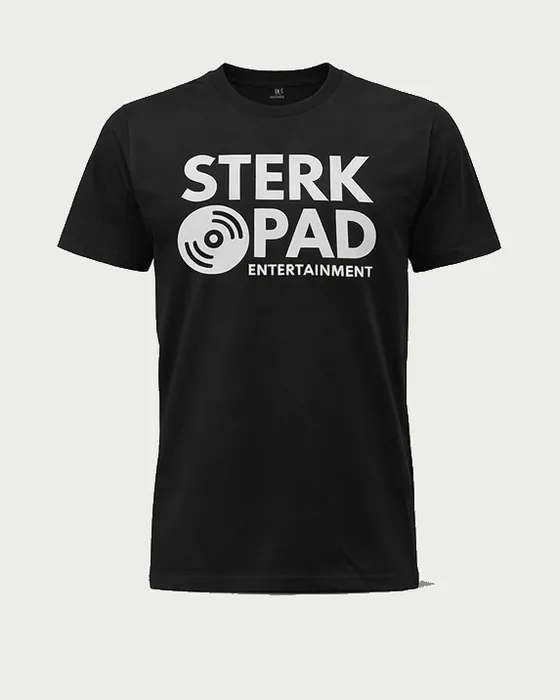
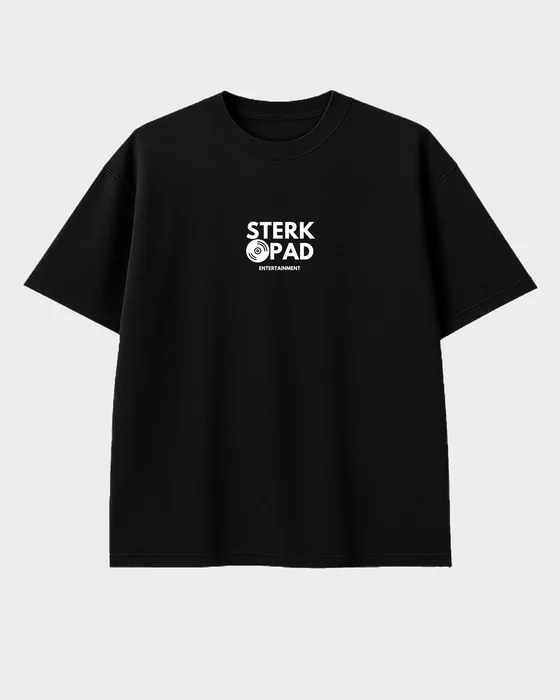
Update the product catalogue from the 2026 lookbook
New prices and sizing supplied by the label:

  Tee     R250 -> R350   S-XXL -> S-XXXL   black or white
  Hoodie  R450 -> R500   S-XXL -> S-XXXL   black or white
  Cap     R180 unchanged, one size

The tee photo is replaced from merch.pdf. That file is eight pages but
only two unique images — a white tee on black and a black tee on white,
each duplicated with the logo at two scales — so pages 1 and 5 were
extracted as tracked sources, their logo bounding boxes matching to a
pixel. prep-merch.py gains a per-entry key mode for the white-on-black
shot, and a fill_w override: a garment wider than it is tall hits the
width limit first, so the tee stopped at 61% of tile height against the
hoodie's 76% and read as a smaller product rather than a wider one.

--probe now reads the corners to pick its own threshold. Asked for a
dark-backdrop file it previously answered with the whole frame.

Not added: TrackPants (R500) and the Full Tracksuit (R800 in S, R850 in
M-XXXL). There is no product photography for either — merch.pdf is
t-shirts only and the "Sterk Opad Apparel" material has not landed. Both
are recorded in a comment on the products section so the range is not
quietly forgotten.

The cap is kept at R180 although it is absent from the new list.

Worth knowing: the tee now carries the lookbook's small left-chest logo
while the hoodie and cap still show the previous large centre-chest one,
so the row is not visually consistent until those two are reshot.

Changed region(s): [[0.0304, 0.3, 0.9714, 0.87], [0.1214, 0.09, 0.8804, 0.42]]

diff --git a/apparel.html b/apparel.html
@@ -96,22 +96,53 @@
         </p>
       </div>
 
+      <!-- Catalogue as supplied by the label, July 2026. Still to be added
+           once product photography exists for them:
+             TrackPants        R500  S-XXXL, black or white
+             Full Tracksuit    R800 in S, R850 in M-XXXL
+           merch.pdf covers t-shirts only. The white tee colourway is already
+           prepped — see "Tee White.png" in the manifest note in
+           tools/prep-merch.py — if the range is ever split by colour.
+
+           The hoodie and cap photos still carry the previous large centre-chest
+           logo; the tee is the current small left-chest lookbook design. Reshoot
+           those two to match. -->
       <div class="merch-grid animate-in animate-in--delay-1">
 
         <article class="merch-card">
           <div class="merch-card__media">
             <span class="merch-card__badge">New</span>
             <img class="merch-card__photo" src="images/merch/tee-black.webp"
-                 alt="Black SterkOpad Entertainment unisex t-shirt with the white chest logo"
+                 alt="SterkOpad Entertainment classic logo t-shirt in black, with a small left-chest logo"
                  width="560" height="700" loading="lazy" decoding="async" />
           </div>
           <div class="merch-card__body">
             <h3 class="merch-card__name">SterkOpad Tee</h3>
-            <p class="merch-card__price">R250</p>
-            <p class="merch-card__desc">Black unisex tee with the white label logo printed on the chest.</p>
-            <p class="merch-card__meta">Unisex &middot; S&ndash;XXL</p>
+            <p class="merch-card__price">R350</p>
+            <p class="merch-card__desc">Classic logo tee in 220&nbsp;GSM cotton, with the label mark on the left chest.</p>
+            <p class="merch-card__meta">Black or White &middot; S&ndash;XXXL</p>
             <a class="merch-card__cta btn btn--whatsapp"
-               href="https://wa.me/27605234596?text=Hi%20SterkOpad%2C%20I%27d%20like%20to%20order%20the%20SterkOpad%20Tee%20%28R250%29.%20My%20size%3A%20"
+               href="https://wa.me/27605234596?text=Hi%20SterkOpad%2C%20I%27d%20like%20to%20order%20the%20SterkOpad%20Tee%20%28R350%29.%20Colour%20and%20size%3A%20"
+               target="_blank" rel="noopener noreferrer">
+              <svg viewBox="0 0 24 24" aria-hidden="true"><path d="M17.472 14.382c-.297-.149-1.758-.867-2.03-.967-.273-.099-.471-.148-.67.15-.197.297-.767.966-.94 1.164-.173.199-.347.223-.644.075-.297-.15-1.255-.463-2.39-1.475-.883-.788-1.48-1.761-1.653-2.059-.173-.297-.018-.458.13-.606.134-.133.298-.347.446-.52.149-.174.198-.298.298-.497.099-.198.05-.371-.025-.52-.075-.149-.669-1.612-.916-2.207-.242-.579-.487-.5-.669-.51-.173-.008-.371-.01-.57-.01-.198 0-.52.074-.792.372-.272.297-1.04 1.016-1.04 2.479 0 1.462 1.065 2.875 1.213 3.074.149.198 2.096 3.2 5.077 4.487.709.306 1.262.489 1.694.625.712.227 1.36.195 1.871.118.571-.085 1.758-.719 2.006-1.413.248-.694.248-1.289.173-1.413-.074-.124-.272-.198-.57-.347m-5.421 7.403h-.004a9.87 9.87 0 01-5.031-1.378l-.361-.214-3.741.982.998-3.648-.235-.374a9.86 9.86 0 01-1.51-5.26c.001-5.45 4.436-9.884 9.888-9.884 2.64 0 5.122 1.03 6.988 2.898a9.825 9.825 0 012.893 6.994c-.003 5.45-4.437 9.884-9.885 9.884m8.413-18.297A11.815 11.815 0 0012.05 0C5.495 0 .16 5.335.157 11.892c0 2.096.547 4.142 1.588 5.945L.057 24l6.305-1.654a11.882 11.882 0 005.683 1.448h.005c6.554 0 11.89-5.335 11.893-11.893a11.821 11.821 0 00-3.48-8.413z"/></svg>
+              Order on WhatsApp
+            </a>
+          </div>
+        </article>
+
+        <article class="merch-card">
+          <div class="merch-card__media">
+            <img class="merch-card__photo" src="images/merch/hoodie.webp"
+                 alt="SterkOpad Entertainment classic logo pullover hoodie in black"
+                 width="560" height="700" loading="lazy" decoding="async" />
+          </div>
+          <div class="merch-card__body">
+            <h3 class="merch-card__name">SterkOpad Hoodie</h3>
+            <p class="merch-card__price">R500</p>
+            <p class="merch-card__desc">Classic logo hoodie. Heavyweight pullover with the label mark across the chest.</p>
+            <p class="merch-card__meta">Black or White &middot; S&ndash;XXXL</p>
+            <a class="merch-card__cta btn btn--whatsapp"
+               href="https://wa.me/27605234596?text=Hi%20SterkOpad%2C%20I%27d%20like%20to%20order%20the%20SterkOpad%20Hoodie%20%28R500%29.%20Colour%20and%20size%3A%20"
                target="_blank" rel="noopener noreferrer">
               <svg viewBox="0 0 24 24" aria-hidden="true"><path d="M17.472 14.382c-.297-.149-1.758-.867-2.03-.967-.273-.099-.471-.148-.67.15-.197.297-.767.966-.94 1.164-.173.199-.347.223-.644.075-.297-.15-1.255-.463-2.39-1.475-.883-.788-1.48-1.761-1.653-2.059-.173-.297-.018-.458.13-.606.134-.133.298-.347.446-.52.149-.174.198-.298.298-.497.099-.198.05-.371-.025-.52-.075-.149-.669-1.612-.916-2.207-.242-.579-.487-.5-.669-.51-.173-.008-.371-.01-.57-.01-.198 0-.52.074-.792.372-.272.297-1.04 1.016-1.04 2.479 0 1.462 1.065 2.875 1.213 3.074.149.198 2.096 3.2 5.077 4.487.709.306 1.262.489 1.694.625.712.227 1.36.195 1.871.118.571-.085 1.758-.719 2.006-1.413.248-.694.248-1.289.173-1.413-.074-.124-.272-.198-.57-.347m-5.421 7.403h-.004a9.87 9.87 0 01-5.031-1.378l-.361-.214-3.741.982.998-3.648-.235-.374a9.86 9.86 0 01-1.51-5.26c.001-5.45 4.436-9.884 9.888-9.884 2.64 0 5.122 1.03 6.988 2.898a9.825 9.825 0 012.893 6.994c-.003 5.45-4.437 9.884-9.885 9.884m8.413-18.297A11.815 11.815 0 0012.05 0C5.495 0 .16 5.335.157 11.892c0 2.096.547 4.142 1.588 5.945L.057 24l6.305-1.654a11.882 11.882 0 005.683 1.448h.005c6.554 0 11.89-5.335 11.893-11.893a11.821 11.821 0 00-3.48-8.413z"/></svg>
               Order on WhatsApp
@@ -122,7 +153,7 @@
         <article class="merch-card">
           <div class="merch-card__media">
             <img class="merch-card__photo" src="images/merch/cap.webp"
-                 alt="Black SterkOpad Entertainment snapback cap with an embroidered front logo"
+                 alt="SterkOpad Entertainment snapback cap in black with an embroidered front logo"
                  width="560" height="700" loading="lazy" decoding="async" />
           </div>
           <div class="merch-card__body">
@@ -139,30 +170,10 @@
           </div>
         </article>
 
-        <article class="merch-card">
-          <div class="merch-card__media">
-            <img class="merch-card__photo" src="images/merch/hoodie.webp"
-                 alt="Black SterkOpad Entertainment pullover hoodie with the white chest logo"
-                 width="560" height="700" loading="lazy" decoding="async" />
-          </div>
-          <div class="merch-card__body">
-            <h3 class="merch-card__name">SterkOpad Hoodie</h3>
-            <p class="merch-card__price">R450</p>
-            <p class="merch-card__desc">Heavyweight pullover hoodie with the label logo across the chest.</p>
-            <p class="merch-card__meta">Unisex &middot; S&ndash;XXL</p>
-            <a class="merch-card__cta btn btn--whatsapp"
-               href="https://wa.me/27605234596?text=Hi%20SterkOpad%2C%20I%27d%20like%20to%20order%20the%20SterkOpad%20Hoodie%20%28R450%29.%20My%20size%3A%20"
-               target="_blank" rel="noopener noreferrer">
-              <svg viewBox="0 0 24 24" aria-hidden="true"><path d="M17.472 14.382c-.297-.149-1.758-.867-2.03-.967-.273-.099-.471-.148-.67.15-.197.297-.767.966-.94 1.164-.173.199-.347.223-.644.075-.297-.15-1.255-.463-2.39-1.475-.883-.788-1.48-1.761-1.653-2.059-.173-.297-.018-.458.13-.606.134-.133.298-.347.446-.52.149-.174.198-.298.298-.497.099-.198.05-.371-.025-.52-.075-.149-.669-1.612-.916-2.207-.242-.579-.487-.5-.669-.51-.173-.008-.371-.01-.57-.01-.198 0-.52.074-.792.372-.272.297-1.04 1.016-1.04 2.479 0 1.462 1.065 2.875 1.213 3.074.149.198 2.096 3.2 5.077 4.487.709.306 1.262.489 1.694.625.712.227 1.36.195 1.871.118.571-.085 1.758-.719 2.006-1.413.248-.694.248-1.289.173-1.413-.074-.124-.272-.198-.57-.347m-5.421 7.403h-.004a9.87 9.87 0 01-5.031-1.378l-.361-.214-3.741.982.998-3.648-.235-.374a9.86 9.86 0 01-1.51-5.26c.001-5.45 4.436-9.884 9.888-9.884 2.64 0 5.122 1.03 6.988 2.898a9.825 9.825 0 012.893 6.994c-.003 5.45-4.437 9.884-9.885 9.884m8.413-18.297A11.815 11.815 0 0012.05 0C5.495 0 .16 5.335.157 11.892c0 2.096.547 4.142 1.588 5.945L.057 24l6.305-1.654a11.882 11.882 0 005.683 1.448h.005c6.554 0 11.89-5.335 11.893-11.893a11.821 11.821 0 00-3.48-8.413z"/></svg>
-              Order on WhatsApp
-            </a>
-          </div>
-        </article>
-
       </div>
 
       <p class="merch-note animate-in animate-in--delay-2">
-        All prices in ZAR. Sizes and stock are confirmed on WhatsApp before you pay.
+        All prices in ZAR. Colours, sizes and stock are confirmed on WhatsApp before you pay.
         EFT details on request.
       </p>
     </div>

diff --git a/tools/prep-merch.py b/tools/prep-merch.py
@@ -9,29 +9,42 @@ apparel page uses. Source files are never modified. Re-runnable.
 Why this is not just a resize
 -----------------------------
 
-The three garments are photographed on a pale studio sweep, and the sweep is
-not the same in each file. Sampling the four corners:
+The sources do not agree with each other. The original studio shots sit on a
+pale sweep that differs per file - sampling the four corners of each:
 
   tee     179 186 195 206
   cap     177 254 204 254   <- white down the right edge, grey down the left
   hoodie  178 182 186 209
 
-So the cards showed three different backdrops. On top of that the sources are
-~2:3 portrait and the old CSS forced them into a square with object-fit
-contain, which letterboxed roughly a third of every tile.
+and the 2026 lookbook shoots the white tee on pure black and the black tee on
+pure white. Left alone that is four different backdrops across one product row.
+On top of it the older sources are ~2:3 portrait while the card tile is 4:5, so
+the old CSS letterboxed roughly a third of every tile away.
 
-This script fixes both: it crops to the card's real 4:5, sizes each garment to
-the same optical scale, and flattens every backdrop onto ONE colour, PLATE.
-The CSS paints .merch-card__media the same value, so photo and tile become a
-single continuous surface instead of a grey rectangle floating on a card.
+This script settles all of it: crop to the card's real 4:5, size each garment
+to a common optical scale, and flatten every backdrop onto ONE colour, PLATE.
+The CSS paints .merch-card__media the same value, so photo and tile read as a
+single continuous surface rather than a rectangle floating on a card.
 
-Backdrop removal is a lightness key, not the border flood fill used by
-prep-hero-art.py. That fill was tried here first and there is no tolerance
-that works for all three - at tol=8 the tee keys cleanly at 44% kept while
-the hoodie collapses to 5%. A lightness threshold suits these files because
-the sweep is uniformly pale and every garment is black. It is the print on
-the chest that needs care, not the garment: the logo is white, so the key is
-applied only outside the garment's bounding box.
+How the backdrop is removed
+---------------------------
+
+Breadth-first fill seeded from the border, walking only through backdrop-
+coloured pixels - pale ones for the sweep, dark ones for the lookbook's white
+tee, chosen per entry by the "key" field.
+
+Two earlier attempts are worth recording so they are not tried again:
+
+  * The colour-delta flood fill from prep-hero-art.py. There is no tolerance
+    that works for all of these - at tol=8 the old tee keys cleanly at 44%
+    kept while the hoodie collapses to 5%.
+  * A plain "recolour every pale pixel outside the garment's bounding box"
+    threshold. A bounding box is a rectangle and a garment is not, so the
+    sweep survived in the box's corners and every tile showed a faint
+    rectangle inside it - the exact artefact this script exists to remove.
+
+The fill cannot reach anything the garment silhouette encloses, so the chest
+logo is safe without needing to be masked at all.
 
 Usage:  python tools/prep-merch.py
         python tools/prep-merch.py --probe "Merch Products/New Item.png"
@@ -60,9 +73,18 @@ OUT_DIR = os.path.join(ROOT, "images", "merch")
 # bbox is the garment in source pixels, measured with --probe and then checked
 # by eye. It excludes the cast shadow, which is part of the backdrop.
 MANIFEST = [
-    {"slug": "tee-black", "src": "Black t.png", "bbox": (18, 72, 470, 616)},
-    {"slug": "cap",       "src": "Cap.png",     "bbox": (36, 154, 456, 550)},
-    {"slug": "hoodie",    "src": "Hoodie.png",  "bbox": (64, 80, 468, 580)},
+    # From the 2026 lookbook, merch.pdf page 5. The white colourway is page 1 —
+    # same artwork, logo bounding boxes matching to a pixel, shot on black
+    # rather than white, so it needs key="dark". "Tee White.png" is kept in
+    # Merch Products/ ready to add as a second card whenever the range is
+    # split by colour; the page currently lists one tee in two colourways.
+    {"slug": "tee-black", "src": "Tee Black.png", "bbox": (250, 275, 1421, 1364),
+     "key": "light", "fill_w": 0.92},
+    # Older shots. These carry the previous large centre-chest logo rather than
+    # the lookbook's small left chest, so the row is not visually consistent.
+    # Replace them with lookbook-style shots when those exist.
+    {"slug": "hoodie",    "src": "Hoodie.png",    "bbox": (64, 80, 468, 580)},
+    {"slug": "cap",       "src": "Cap.png",       "bbox": (36, 154, 456, 550)},
 ]
 
 # The one light surface on the site. Must stay in step with --plate in :root.
@@ -78,6 +100,10 @@ QUALITY = 82
 # bottoms out near 175 at the corners and the garments are black, so there is
 # a wide margin either side of this.
 KEY_THRESHOLD = 150
+
+# ...and the mirror of it for the lookbook's white tee, which is shot on pure
+# black. The garment's darkest shading sits well above this.
+DARK_KEY_THRESHOLD = 60
 
 # The storefront render spells the label "STERK PAD" - the record glyph that
 # forms the O has come away from it - and does so on the fascia, the right-hand
@@ -106,28 +132,46 @@ def kb(path):
 
 
 def probe(path):
-    """Print the dark-pixel bounding box, to seed a new MANIFEST entry."""
+    """
+    Print the garment bounding box, to seed a new MANIFEST entry.
+
+    Reads the corners first to work out which way round the shot is, so this
+    is useful on a black-backdrop file too - testing for dark pixels on one of
+    those just returns the whole frame.
+    """
     im = Image.open(path).convert("L")
-    mask = im.point(lambda v: 255 if v < KEY_THRESHOLD else 0)
+    w, h = im.size
+    corners = [im.getpixel(p) for p in ((3, 3), (w - 4, 3), (3, h - 4), (w - 4, h - 4))]
+    dark_bg = sum(corners) / 4 < 128
+
+    if dark_bg:
+        mask = im.point(lambda v: 255 if v > DARK_KEY_THRESHOLD else 0)
+    else:
+        mask = im.point(lambda v: 255 if v < KEY_THRESHOLD else 0)
+
     box = mask.getbbox()
-    print("%s  %dx%d  dark bbox = %s" % (os.path.basename(path),
-                                         im.width, im.height, box))
+    print("%s  %dx%d  key=%-5s bbox = %s"
+          % (os.path.basename(path), w, h, "dark" if dark_bg else "light", box))
     return box
 
 
-def flatten_backdrop(rgb):
+def flatten_backdrop(rgb, key="light"):
     """
     Return a copy with the backdrop replaced by PLATE.
 
-    Breadth-first fill seeded from the border, walking only through pale
-    pixels. Because it can reach nothing that the garment silhouette encloses,
-    the white chest logo survives untouched while the sweep and the cast
+    Breadth-first fill seeded from the border, walking only through backdrop-
+    coloured pixels. Because it can reach nothing that the garment silhouette
+    encloses, the chest logo survives untouched while the sweep and the cast
     shadow around the garment are flattened.
 
     A plain "every pale pixel" threshold was tried first and is wrong: the
     garment bounding box is a rectangle, the garment is not, so the sweep
     survived in the box's corners and each tile showed a faint rectangle
     inside it - the very artefact this script exists to remove.
+
+    key="light"  backdrop is the pale studio sweep (the original three shots)
+    key="dark"   backdrop is black (the white tee from the lookbook, which is
+                 shot on black - the black tee in the same set is on white)
     """
     from collections import deque
 
@@ -135,12 +179,19 @@ def flatten_backdrop(rgb):
     grey = rgb.convert("L")
     gpx, px = grey.load(), rgb.load()
 
+    if key == "light":
+        is_backdrop = lambda v: v >= KEY_THRESHOLD
+    elif key == "dark":
+        is_backdrop = lambda v: v <= DARK_KEY_THRESHOLD
+    else:
+        raise ValueError("unknown key mode: " + key)
+
     seen = bytearray(w * h)
     q = deque()
 
     def seed(x, y):
         i = y * w + x
-        if not seen[i] and gpx[x, y] >= KEY_THRESHOLD:
+        if not seen[i] and is_backdrop(gpx[x, y]):
             seen[i] = 1
             px[x, y] = PLATE
             q.append((x, y))
@@ -170,12 +221,18 @@ def build_tile(entry):
     x0, y0, x1, y1 = entry["bbox"]
     gw, gh = x1 - x0, y1 - y0
 
-    im = flatten_backdrop(im)
+    im = flatten_backdrop(im, entry.get("key", "light"))
 
     # Scale so the garment lands at a consistent size in every tile. Whichever
     # of the two limits binds first wins, so a wide hoodie and a small cap end
     # up looking like they were shot for the same grid.
-    scale = min(TILE_H * FILL_H / gh, TILE_W * FILL_W / gw)
+    #
+    # A garment wider than it is tall hits the width limit long before the
+    # height one - the lookbook tees are 1.08:1 and stopped at 61% of tile
+    # height against the hoodie's 76%, which read as a smaller product rather
+    # than a wider one. fill_w lets those entries spend more of the width.
+    scale = min(TILE_H * entry.get("fill_h", FILL_H) / gh,
+                TILE_W * entry.get("fill_w", FILL_W) / gw)
     crop_w, crop_h = TILE_W / scale, TILE_H / scale
 
     cx = (x0 + x1) / 2
